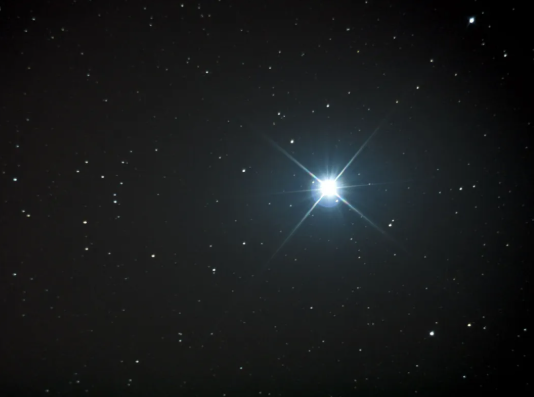
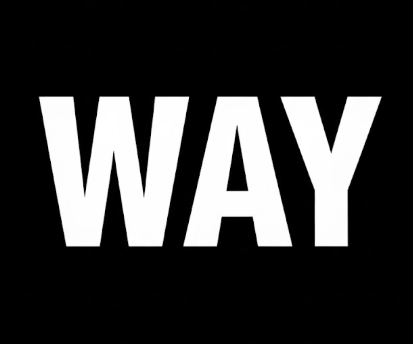
feat: update site layout, images, and scripts
- Refine global styles in css/style.css
- Replace or optimize images (pic1.jpg, pic2.jpg, pic3.jpg)
- Update structure and content in index.html
- Improve interactivity and functionality in js/script.js

Enhances overall UI/UX and performance across the site.

diff --git a/index.html b/index.html
@@ -41,7 +41,6 @@
             </ul>
 
             <button id="themeToggle" class="theme-toggle">🌙</button>
-
         </nav>
 
         <div class="hero-content">
@@ -57,7 +56,7 @@
         <div class="about-container">
             <div class="about-text fade-in">
                 <h2>About Me</h2>
-                <p>Hello! I am a beginner web developer learning to build modern, professional portfolios using HTML, CSS, and Git. I focus on clean layouts, bold color schemes, and responsive designs.</p>
+                <p>Hello! I am a beginner web developer learning to build modern, professional portfolios using HTML, CSS, JS and Git. I focus on clean layouts, bold color schemes, and responsive designs.</p>
 
                 <div class="skills-container">
                     <div class="skill">
@@ -77,11 +76,10 @@
                         <div class="skill-bar"><span data-level="70"></span></div>
                     </div>
                 </div>
-
             </div>
 
             <div class="about-photo fade-in">
-                <img src="images/profile.png" alt="Profile photo of Your Name">
+                <img src="images/profile.png">
             </div>
         </div>
     </section>
@@ -94,10 +92,8 @@
                 <img src="images/screenshot.png" alt="Project screenshot — Personal Portfolio">
                 <div class="project-body">
                     <h3>Personal Portfolio</h3>
-                    <p>Built with HTML, CSS, and modern layout techniques. Responsive, bold yellow accents, and accessible contact form.</p>
-                    <a class="project-link" href="https://github.com/np02cs4a240123-cyber/rachit-thapa" target="_blank">
-                        View Project
-                    </a>
+                    <p>Built with HTML, CSS, JS, and modern layout techniques. Responsive, bold yellow accents, and accessible contact form.</p>
+                    <a class="project-link" href="https://github.com/np02cs4a240123-cyber/rachit-thapa" target="_blank">View Project</a>
                 </div>
             </article>
         </div>
@@ -106,7 +102,6 @@
     <section id="media" class="media-section">
         <h2>Media Showcase</h2>
 
-        <!-- Video -->
         <div class="video-container">
             <h3>My Demo Video</h3>
             <video id="myVideo" width="100%" controls>
@@ -115,7 +110,6 @@
             </video>
         </div>
 
-        <!-- Image Slider -->
         <section id="gallery" class="gallery">
             <h2>Image Slider</h2>
 
@@ -133,7 +127,6 @@
             </div>
         </section>
 
-        <!-- Canvas Section -->
         <section id="canvas-section" class="canvas-section">
             <h2>Draw Something!</h2>
             <canvas id="drawingCanvas" width="600" height="300"></canvas>
@@ -143,15 +136,31 @@
             </div>
         </section>
 
-        <!-- Audio -->
         <div class="audio-container">
             <h3>My Audio Clip</h3>
             <audio id="myAudio" controls>
                 <source src="media/demo-audio.mp3" type="audio/mp3">
-                Your browser does not support audio.
+                Browser does not support audio.
             </audio>
         </div>
+    </section>
 
+    <section id="layout-notes" class="fade-in">
+        <h2>Flexbox vs Grid (Learning Notes)</h2>
+
+        <div class="notes-container">
+            <div class="note">
+                <h3>Flexbox</h3>
+                <p>Flexbox is a one-dimensional layout system used to arrange items <strong>either in a row or a column</strong>. It is ideal for aligning elements, spacing items evenly, and building components like navigation bars and cards.</p>
+            </div>
+
+            <div class="note">
+                <h3>CSS Grid</h3>
+                <p>CSS Grid is a two-dimensional layout system used to work with <strong>both rows and columns</strong> at the same time. It is perfect for creating full-page layouts or sections like the About area in this portfolio.</p>
+            </div>
+        </div>
+
+        <p class="chosen-method">✔ <strong>For this portfolio, I used CSS Grid</strong> to arrange the About section into two columns.</p>
     </section>
 
     <section id="contact" class="contact">
@@ -172,26 +181,23 @@
             <p id="formSuccess" class="success-message"></p>
         </form>
 
+        <div id="savedDataDisplay" class="saved-data-box"></div>
     </section>
 
     <footer class="footer">
         <p>&copy; <span id="year"></span> RA€HIT. All Rights Reserved.</p>
     </footer>
 
-    <!-- Back to Top Button -->
     <button id="backToTop" class="back-to-top">▲</button>
 
     <script>
-        // Set current year
         document.getElementById('year').textContent = new Date().getFullYear();
 
-        // Skill bars
         document.querySelectorAll('.skill-bar span').forEach(span => {
             const level = span.getAttribute('data-level');
             span.style.width = level + "%";
         });
 
-        // Back to Top Button
         const backToTopBtn = document.getElementById('backToTop');
 
         window.onscroll = function() {

diff --git a/css/style.css b/css/style.css
@@ -495,7 +495,7 @@ section {
     border-radius: 50%;
     font-size: 18px;
     cursor: pointer;
-    display: none; /* hidden by default */
+    display: none;
     box-shadow: 0px 6px 15px rgba(0,0,0,0.2);
     transition: opacity 0.3s, transform 0.3s;
 }
@@ -523,4 +523,76 @@ section {
     .logo {
         font-size: 26px;
     }
+}
+
+/* -------------------------
+   FLEXBOX VS GRID NOTES
+-------------------------- */
+#layout-notes {
+    max-width: 1100px;
+    margin: 80px auto;
+    padding: 0 20px;
+}
+
+#layout-notes h2 {
+    font-family: 'Bebas Neue', sans-serif;
+    font-size: 36px;
+    margin-bottom: 20px;
+    color: var(--black);
+}
+
+.notes-container {
+    display: grid;
+    grid-template-columns: repeat(2, 1fr);
+    gap: 30px;
+    margin-bottom: 20px;
+}
+
+.note {
+    background: white;
+    padding: 20px;
+    border-left: 6px solid var(--yellow);
+    box-shadow: 0px 5px 20px rgba(0,0,0,0.05);
+    border-radius: 10px;
+}
+
+.note h3 {
+    font-size: 24px;
+    font-family: 'Bebas Neue', sans-serif;
+    margin-bottom: 10px;
+}
+
+.note p {
+    line-height: 1.6;
+}
+
+.chosen-method {
+    margin-top: 10px;
+    font-weight: 600;
+    color: var(--black);
+}
+
+/* Responsive */
+@media (max-width: 768px) {
+    .notes-container {
+        grid-template-columns: 1fr;
+    }
+}
+
+/* -------------------------
+   SAVED FORM DATA BOX
+-------------------------- */
+.saved-data-box {
+    margin-top: 30px;
+    padding: 20px;
+    background: white;
+    border-left: 6px solid var(--yellow);
+    border-radius: 10px;
+    box-shadow: 0 5px 15px rgba(0,0,0,0.08);
+}
+
+.saved-data-box h3 {
+    font-size: 22px;
+    font-family: 'Bebas Neue', sans-serif;
+    margin-bottom: 10px;
 }

diff --git a/js/script.js b/js/script.js
@@ -53,6 +53,9 @@ form.addEventListener('submit', (e) => {
     name.value = "";
     email.value = "";
     message.value = "";
+
+    // Update saved data display
+    showSavedData();
 });
 
 // Save form data to localStorage
@@ -68,6 +71,46 @@ const saveFormData = () => {
 
 // Optional console output
 console.log("Saved form data:", localStorage.getItem("contactForm"));
+
+
+// -------------------------
+// LOAD SAVED FORM DATA ON PAGE LOAD
+// -------------------------
+window.addEventListener("DOMContentLoaded", () => {
+    const saved = JSON.parse(localStorage.getItem("contactForm"));
+    if (saved) {
+        document.getElementById("name").value = saved.name;
+        document.getElementById("email").value = saved.email;
+        document.getElementById("message").value = saved.message;
+    }
+
+    // Display saved data on load
+    showSavedData();
+});
+
+
+// -------------------------
+// DISPLAY SAVED FORM DATA BELOW THE FORM
+// -------------------------
+function showSavedData() {
+    const saved = JSON.parse(localStorage.getItem("contactForm"));
+    const box = document.getElementById("savedDataDisplay");
+
+    if (!box) return; // in case the element doesn't exist
+
+    if (!saved) {
+        box.innerHTML = "<p>No saved messages yet.</p>";
+        return;
+    }
+
+    box.innerHTML = `
+        <h3>Last Submitted Message:</h3>
+        <p><strong>Name:</strong> ${saved.name}</p>
+        <p><strong>Email:</strong> ${saved.email}</p>
+        <p><strong>Message:</strong> ${saved.message}</p>
+    `;
+}
+
 
 
 // -------------------------
